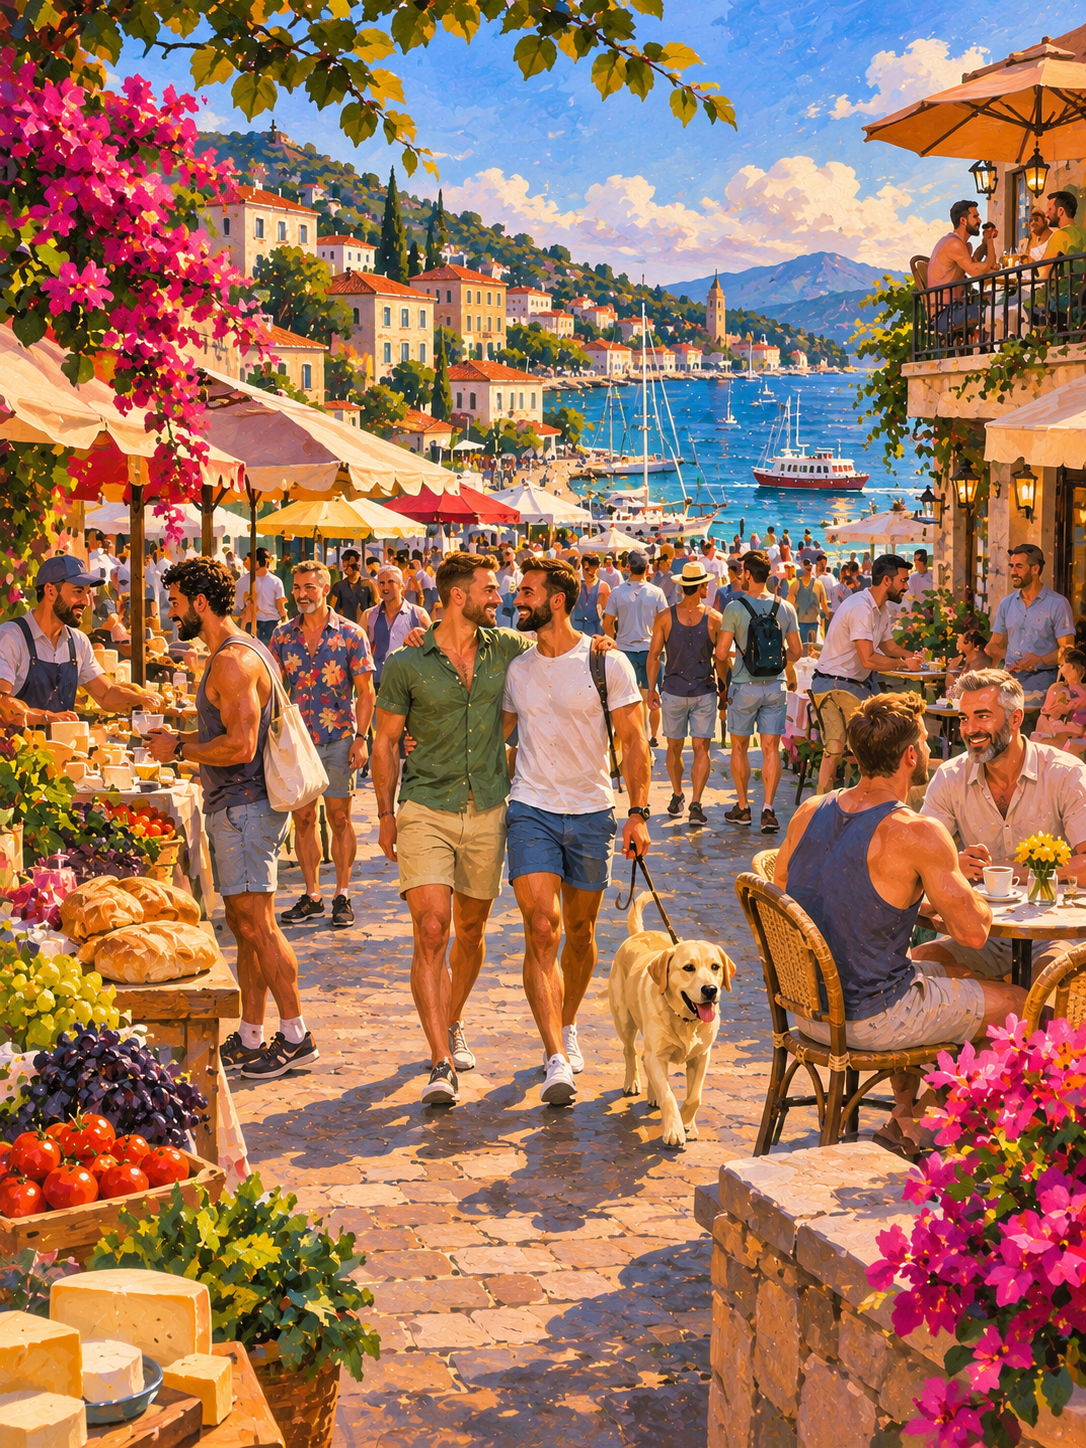
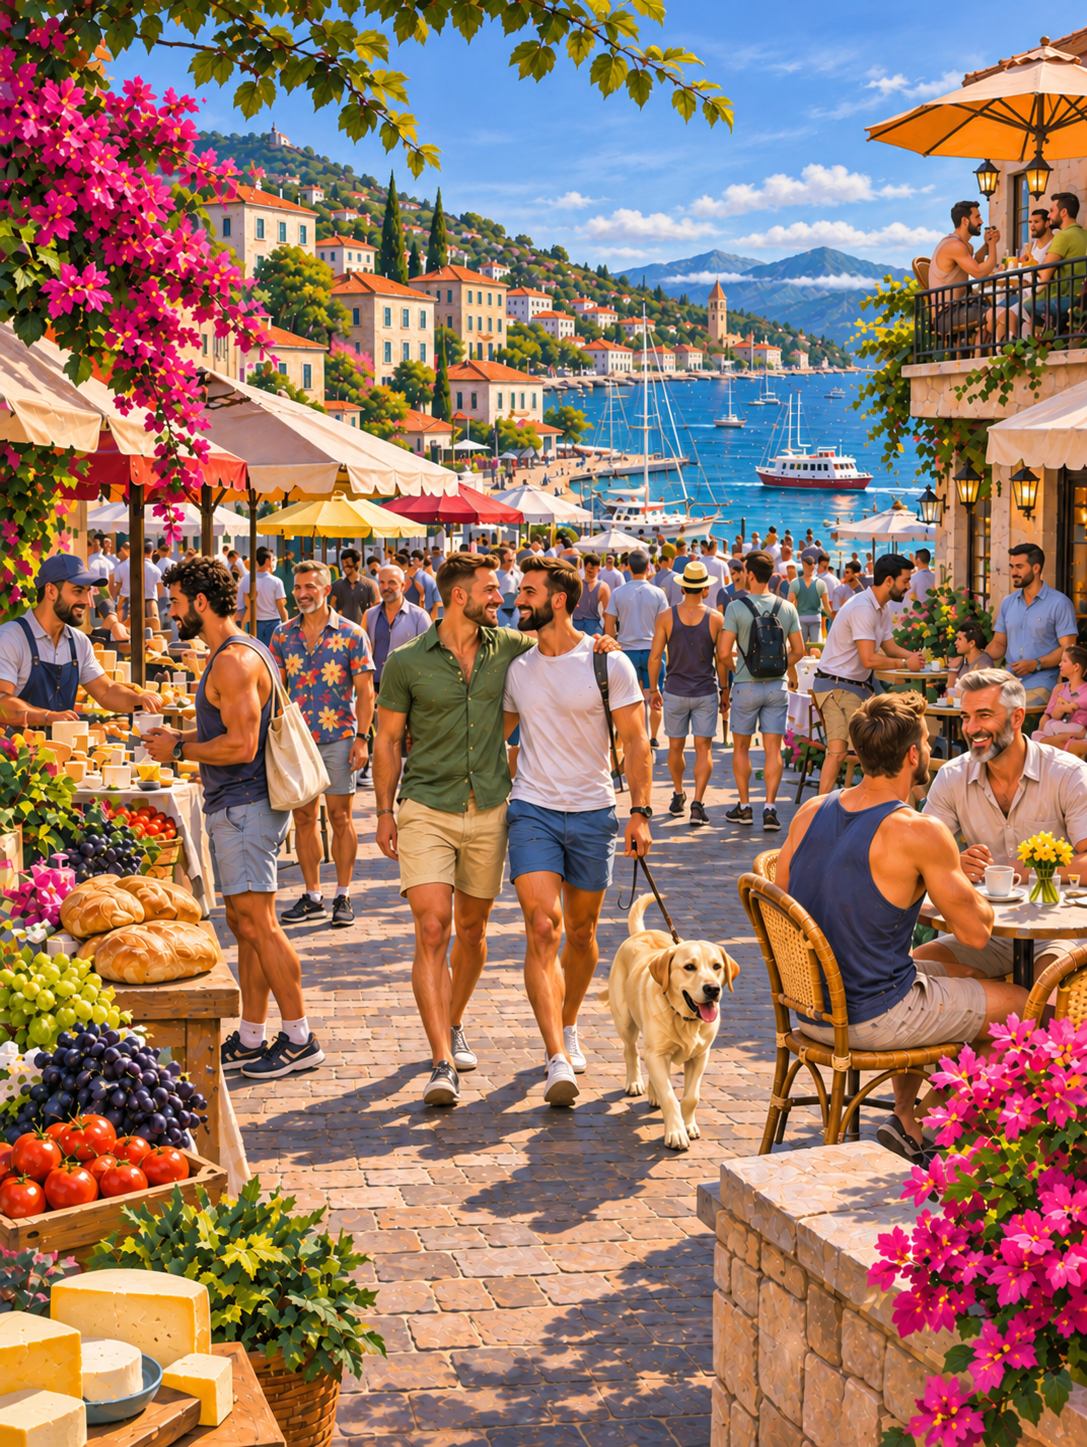
Refresh Out & About artwork and day-to-night rotation
- Update Lakeside, Market, and Harbour artwork
- Replace Carnival with Beach in source assets and the app asset catalog
- Update the Beach name and accessibility description
- Order backgrounds from morning through daytime to evening and moonlight
- Update README and asset documentation

diff --git a/Gayffirmations/App/ThemeImage.swift b/Gayffirmations/App/ThemeImage.swift
@@ -36,16 +36,16 @@ extension AppTheme {
                            overlayOpacity: 0.48, accessibilityDescription: "An AI-generated image of people relaxing at a flower-lined alpine café beside a mountain stream", textColor: .white),
                 ThemeImage(id: "out-and-about-market", name: "Market", focalPoint: .center,
                            overlayOpacity: 0.48, accessibilityDescription: "An AI-generated image of people strolling through a colourful Mediterranean market beside a sunny bay", textColor: .white),
-                ThemeImage(id: "out-and-about-pool-club", name: "Pool Club", focalPoint: .center,
-                           overlayOpacity: 0.48, accessibilityDescription: "An AI-generated image of people swimming and relaxing beside a tropical pool overlooking mountains", textColor: .white),
                 ThemeImage(id: "out-and-about-park", name: "Park", focalPoint: .center,
                            overlayOpacity: 0.48, accessibilityDescription: "An AI-generated image of people picnicking and cycling in a flower-filled park beside a lake", textColor: .white),
+                ThemeImage(id: "out-and-about-pool-club", name: "Pool Club", focalPoint: .center,
+                           overlayOpacity: 0.48, accessibilityDescription: "An AI-generated image of people swimming and relaxing beside a tropical pool overlooking mountains", textColor: .white),
+                ThemeImage(id: "out-and-about-beach", name: "Beach", focalPoint: .center,
+                           overlayOpacity: 0.48, accessibilityDescription: "An AI-generated image of people relaxing, swimming and playing volleyball at a sunny beach beside a rocky headland", textColor: .white),
                 ThemeImage(id: "out-and-about-waterfall", name: "Waterfall", focalPoint: .center,
                            overlayOpacity: 0.48, accessibilityDescription: "An AI-generated image of people relaxing beside a woodland waterfall and turquoise swimming hole", textColor: .white),
                 ThemeImage(id: "out-and-about-harbour", name: "Harbour", focalPoint: .center,
                            overlayOpacity: 0.48, accessibilityDescription: "An AI-generated image of people dining and walking along a flower-lined harbour promenade at golden hour", textColor: .white),
-                ThemeImage(id: "out-and-about-carnival", name: "Carnival", focalPoint: .center,
-                           overlayOpacity: 0.48, accessibilityDescription: "An AI-generated image of people strolling among glowing rides and stalls at a colourful lakeside carnival", textColor: .white),
                 ThemeImage(id: "out-and-about-moonlit-lakeside", name: "Moonlit Lakeside", focalPoint: .center,
                            overlayOpacity: 0.48, accessibilityDescription: "An AI-generated image of people gathered around a campfire beside an alpine lake under the moon", textColor: .white)
             ]

diff --git a/README.md b/README.md
@@ -220,8 +220,8 @@ default outside it. Disabled schedules and schedules without ready affirmations
 do not supply a theme. Existing saved schedules inherit the default.
 
 The two themes are Out & About (the default, with nine illustrated backgrounds) and Steel (with six monochrome backgrounds).
-Out & About rotates from morning to night: Lakeside, Alpine Café, Market, Pool Club, Park,
-Waterfall, Harbour, Carnival, and Moonlit Lakeside.
+Out & About rotates from morning to night: Lakeside, Alpine Café, Market, Park, Pool Club,
+Beach, Waterfall, Harbour, and Moonlit Lakeside.
 Themes with images use them by default and offer a Use images switch saved
 separately for each theme. Turning it off uses the theme's colour background.
 The picker shows thumbnail previews. Steel renders images in greyscale;

diff --git a/SOURCES.md b/SOURCES.md
@@ -76,9 +76,9 @@ The rotation progresses from morning through twilight to moonlight.
 | Lakeside | `out-and-about-lakeside` |
 | Alpine Café | `out-and-about-alpine-cafe` |
 | Market | `out-and-about-market` |
-| Pool Club | `out-and-about-pool-club` |
 | Park | `out-and-about-park` |
+| Pool Club | `out-and-about-pool-club` |
+| Beach | `out-and-about-beach` |
 | Waterfall | `out-and-about-waterfall` |
 | Harbour | `out-and-about-harbour` |
-| Carnival | `out-and-about-carnival` |
 | Moonlit Lakeside | `out-and-about-moonlit-lakeside` |
